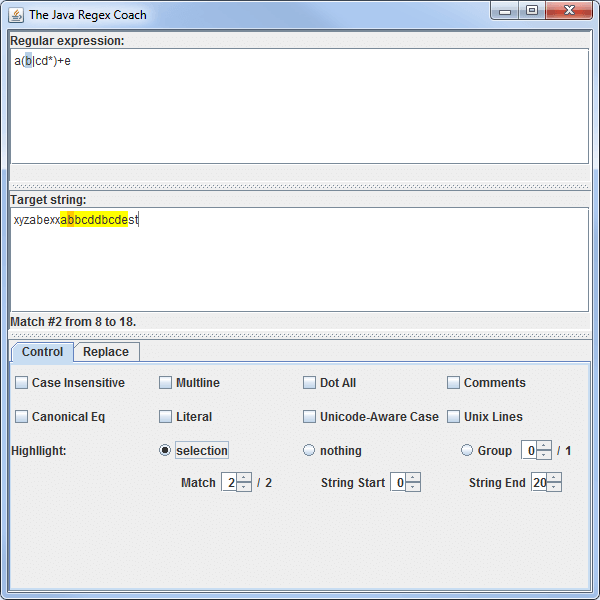
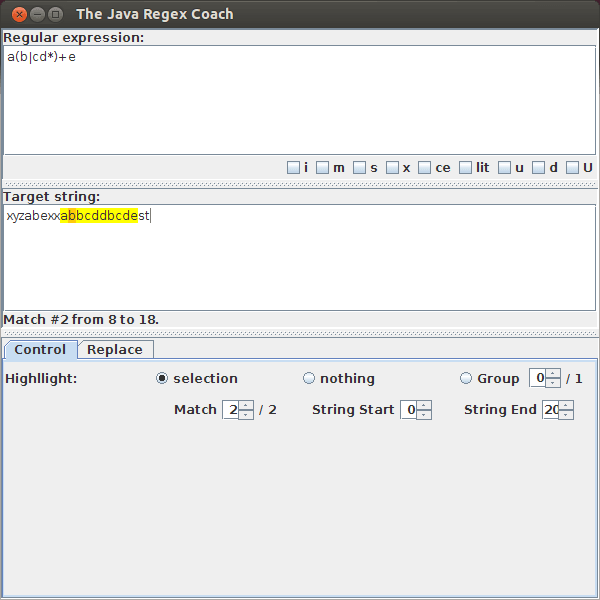
fix #2 Move modifier checkboxes up next to the regex message area

Changed region(s): [[0.0, 0.0, 1.0, 1.0], [0.78, 0.72, 0.93, 0.81]]

diff --git a/src/main/java/be/crydust/regexcoach/Gui.java b/src/main/java/be/crydust/regexcoach/Gui.java
@@ -40,6 +40,7 @@ public class Gui extends javax.swing.JFrame {
     @SuppressWarnings("unchecked")
     // <editor-fold defaultstate="collapsed" desc="Generated Code">//GEN-BEGIN:initComponents
     private void initComponents() {
+        java.awt.GridBagConstraints gridBagConstraints;
 
         highlightButtonGroup = new javax.swing.ButtonGroup();
         jPanel1 = new javax.swing.JPanel();
@@ -49,15 +50,8 @@ public class Gui extends javax.swing.JFrame {
         jLabel1 = new javax.swing.JLabel();
         jScrollPane1 = new javax.swing.JScrollPane();
         regexPane = new javax.swing.JTextPane();
+        jPanel2 = new javax.swing.JPanel();
         regexStatus = new javax.swing.JLabel();
-        jPanel4 = new javax.swing.JPanel();
-        jLabel2 = new javax.swing.JLabel();
-        jScrollPane3 = new javax.swing.JScrollPane();
-        targetPane = new javax.swing.JTextPane();
-        targetStatus = new javax.swing.JLabel();
-        jTabbedPane1 = new javax.swing.JTabbedPane();
-        controlPanelWrapper = new javax.swing.JPanel();
-        controlPanel = new javax.swing.JPanel();
         regexOptCaseInsensitive = new javax.swing.JCheckBox();
         regexOptMultiline = new javax.swing.JCheckBox();
         regexOptDotAll = new javax.swing.JCheckBox();
@@ -66,6 +60,15 @@ public class Gui extends javax.swing.JFrame {
         regexOptLiteral = new javax.swing.JCheckBox();
         regexOptUnicodeCase = new javax.swing.JCheckBox();
         regexOptUnixLines = new javax.swing.JCheckBox();
+        regexOptUnicodeCharacterClass = new javax.swing.JCheckBox();
+        jPanel4 = new javax.swing.JPanel();
+        jLabel2 = new javax.swing.JLabel();
+        jScrollPane3 = new javax.swing.JScrollPane();
+        targetPane = new javax.swing.JTextPane();
+        targetStatus = new javax.swing.JLabel();
+        jTabbedPane1 = new javax.swing.JTabbedPane();
+        controlPanelWrapper = new javax.swing.JPanel();
+        controlPanel = new javax.swing.JPanel();
         jLabel3 = new javax.swing.JLabel();
         highlightSelection = new javax.swing.JRadioButton();
         highlightNone = new javax.swing.JRadioButton();
@@ -96,7 +99,6 @@ public class Gui extends javax.swing.JFrame {
         setDefaultCloseOperation(javax.swing.WindowConstants.EXIT_ON_CLOSE);
         setTitle("The Java Regex Coach");
         setMinimumSize(new java.awt.Dimension(600, 600));
-        setPreferredSize(new java.awt.Dimension(600, 600));
 
         jPanel1.setLayout(new java.awt.BorderLayout());
 
@@ -115,8 +117,56 @@ public class Gui extends javax.swing.JFrame {
 
         jPanel3.add(jScrollPane1, java.awt.BorderLayout.CENTER);
 
+        jPanel2.setLayout(new java.awt.GridBagLayout());
+
         regexStatus.setText(" ");
-        jPanel3.add(regexStatus, java.awt.BorderLayout.SOUTH);
+        gridBagConstraints = new java.awt.GridBagConstraints();
+        gridBagConstraints.anchor = java.awt.GridBagConstraints.WEST;
+        gridBagConstraints.weightx = 1.0;
+        jPanel2.add(regexStatus, gridBagConstraints);
+
+        regexOptCaseInsensitive.setText("i");
+        regexOptCaseInsensitive.setToolTipText("Case Insensitive");
+        regexOptCaseInsensitive.setActionCommand("");
+        jPanel2.add(regexOptCaseInsensitive, new java.awt.GridBagConstraints());
+
+        regexOptMultiline.setText("m");
+        regexOptMultiline.setToolTipText("Multline");
+        regexOptMultiline.setActionCommand("");
+        regexOptMultiline.setName(""); // NOI18N
+        jPanel2.add(regexOptMultiline, new java.awt.GridBagConstraints());
+
+        regexOptDotAll.setText("s");
+        regexOptDotAll.setToolTipText("Dot All");
+        regexOptDotAll.setActionCommand("");
+        regexOptDotAll.setName(""); // NOI18N
+        jPanel2.add(regexOptDotAll, new java.awt.GridBagConstraints());
+
+        regexOptComments.setText("x");
+        regexOptComments.setToolTipText("Comments");
+        jPanel2.add(regexOptComments, new java.awt.GridBagConstraints());
+
+        regexOptCanonEq.setText("ce");
+        regexOptCanonEq.setToolTipText("Canonical Eq");
+        jPanel2.add(regexOptCanonEq, new java.awt.GridBagConstraints());
+
+        regexOptLiteral.setText("lit");
+        regexOptLiteral.setToolTipText("Literal");
+        jPanel2.add(regexOptLiteral, new java.awt.GridBagConstraints());
+
+        regexOptUnicodeCase.setText("u");
+        regexOptUnicodeCase.setToolTipText("Unicode-Aware Case");
+        jPanel2.add(regexOptUnicodeCase, new java.awt.GridBagConstraints());
+
+        regexOptUnixLines.setText("d");
+        regexOptUnixLines.setToolTipText("Unix Lines");
+        jPanel2.add(regexOptUnixLines, new java.awt.GridBagConstraints());
+
+        regexOptUnicodeCharacterClass.setText("U");
+        regexOptUnicodeCharacterClass.setToolTipText("Unicode character classes");
+        jPanel2.add(regexOptUnicodeCharacterClass, new java.awt.GridBagConstraints());
+
+        jPanel3.add(jPanel2, java.awt.BorderLayout.SOUTH);
 
         jSplitPane2.setTopComponent(jPanel3);
 
@@ -138,36 +188,7 @@ public class Gui extends javax.swing.JFrame {
 
         controlPanelWrapper.setLayout(new java.awt.BorderLayout());
 
-        controlPanel.setLayout(new java.awt.GridLayout(4, 4));
-
-        regexOptCaseInsensitive.setText("Case Insensitive");
-        regexOptCaseInsensitive.setActionCommand("");
-        controlPanel.add(regexOptCaseInsensitive);
-
-        regexOptMultiline.setText("Multline");
-        regexOptMultiline.setActionCommand("");
-        regexOptMultiline.setName(""); // NOI18N
-        controlPanel.add(regexOptMultiline);
-
-        regexOptDotAll.setText("Dot All");
-        regexOptDotAll.setActionCommand("");
-        regexOptDotAll.setName(""); // NOI18N
-        controlPanel.add(regexOptDotAll);
-
-        regexOptComments.setText("Comments");
-        controlPanel.add(regexOptComments);
-
-        regexOptCanonEq.setText("Canonical Eq");
-        controlPanel.add(regexOptCanonEq);
-
-        regexOptLiteral.setText("Literal");
-        controlPanel.add(regexOptLiteral);
-
-        regexOptUnicodeCase.setText("Unicode-Aware Case");
-        controlPanel.add(regexOptUnicodeCase);
-
-        regexOptUnixLines.setText("Unix Lines");
-        controlPanel.add(regexOptUnixLines);
+        controlPanel.setLayout(new java.awt.GridLayout(2, 4));
 
         jLabel3.setText("Highllight:");
         controlPanel.add(jLabel3);
@@ -359,6 +380,10 @@ public class Gui extends javax.swing.JFrame {
         return regexOptUnixLines;
     }
 
+    public JCheckBox getRegexOptUnicodeCharacterClass() {
+        return regexOptUnicodeCharacterClass;
+    }
+
     public JTextPane getRegexPane() {
         return regexPane;
     }
@@ -410,6 +435,7 @@ public class Gui extends javax.swing.JFrame {
     private javax.swing.JPanel jPanel11;
     private javax.swing.JPanel jPanel12;
     private javax.swing.JPanel jPanel13;
+    private javax.swing.JPanel jPanel2;
     private javax.swing.JPanel jPanel3;
     private javax.swing.JPanel jPanel4;
     private javax.swing.JPanel jPanel7;
@@ -430,6 +456,7 @@ public class Gui extends javax.swing.JFrame {
     private javax.swing.JCheckBox regexOptLiteral;
     private javax.swing.JCheckBox regexOptMultiline;
     private javax.swing.JCheckBox regexOptUnicodeCase;
+    private javax.swing.JCheckBox regexOptUnicodeCharacterClass;
     private javax.swing.JCheckBox regexOptUnixLines;
     private javax.swing.JTextPane regexPane;
     private javax.swing.JLabel regexStatus;

diff --git a/src/main/java/be/crydust/regexcoach/GuiReader.java b/src/main/java/be/crydust/regexcoach/GuiReader.java
@@ -59,6 +59,9 @@ public final class GuiReader {
         if (swing.getRegexOptUnixLines().isSelected()) {
             patternFlagsBuilder |= Pattern.UNIX_LINES;
         }
+        if (swing.getRegexOptUnicodeCharacterClass().isSelected()) {
+            patternFlagsBuilder |= Pattern.UNICODE_CHARACTER_CLASS;
+        }
         return patternFlagsBuilder;
     }
 
